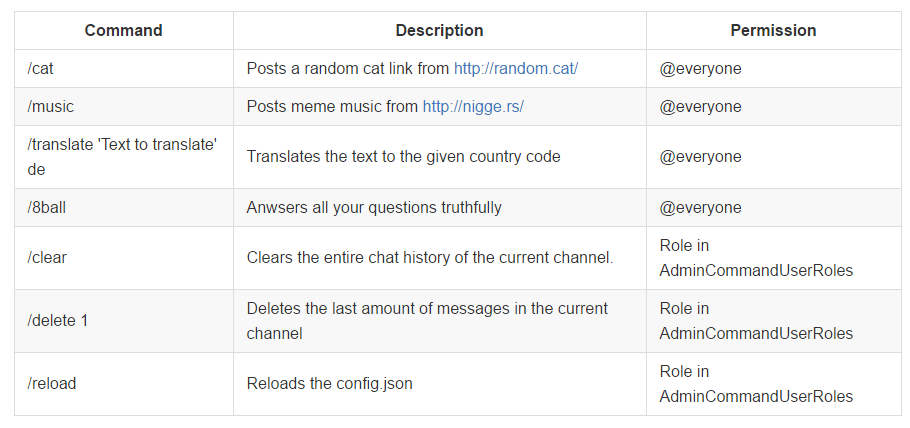
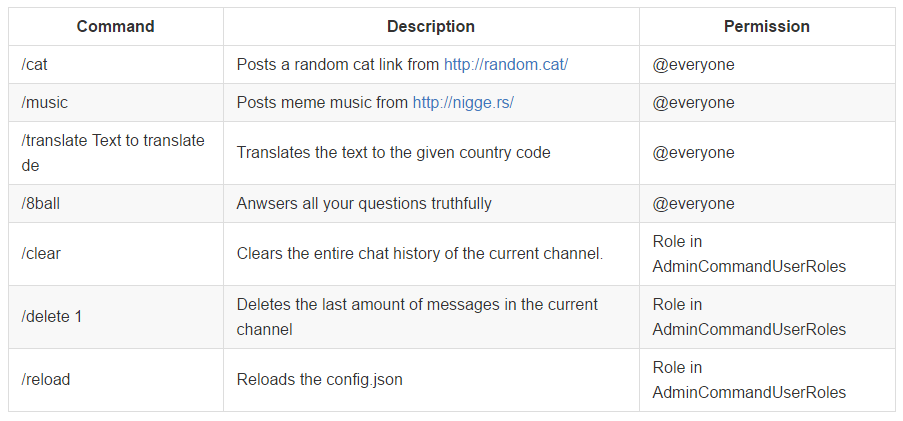
updated translate

diff --git a/NekoBot/Commands/UserCommands.cs b/NekoBot/Commands/UserCommands.cs
@@ -8,7 +8,7 @@ namespace NekoBot.Commands
 {
     public class UserCommands
     {
-        private Regex translateCmd = new Regex(@"[/]translate '.*.' [a-z]{2}");
+        private Regex translateCmd = new Regex(@"[/]translate .*. [a-z]{2}");
 
         public List<string> Commands { get; private set; }
 
@@ -41,9 +41,9 @@ namespace NekoBot.Commands
 
         private static void TranslateCmd(string message, DiscordChannel channel)
         {
-            string[] splittedCmd = message.Split('\'');
-            string text = splittedCmd[1].Trim();
-            string language = splittedCmd[2].Trim();
+            string withoutCmd = message.Remove(0, 10).Trim();
+            string language = withoutCmd.Substring(withoutCmd.Length - 2);
+            string text = withoutCmd.Remove(withoutCmd.Length - 2).Trim();
 
             channel.SendMessage(string.Format("{0} translates to {1} in {2}",
                 StringHelper.Bold(text),
